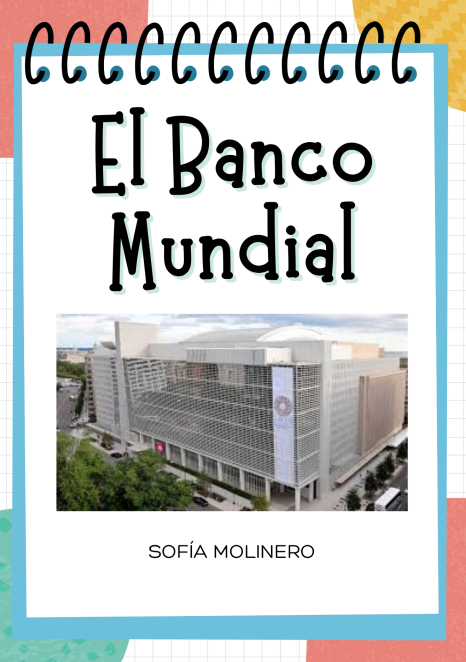
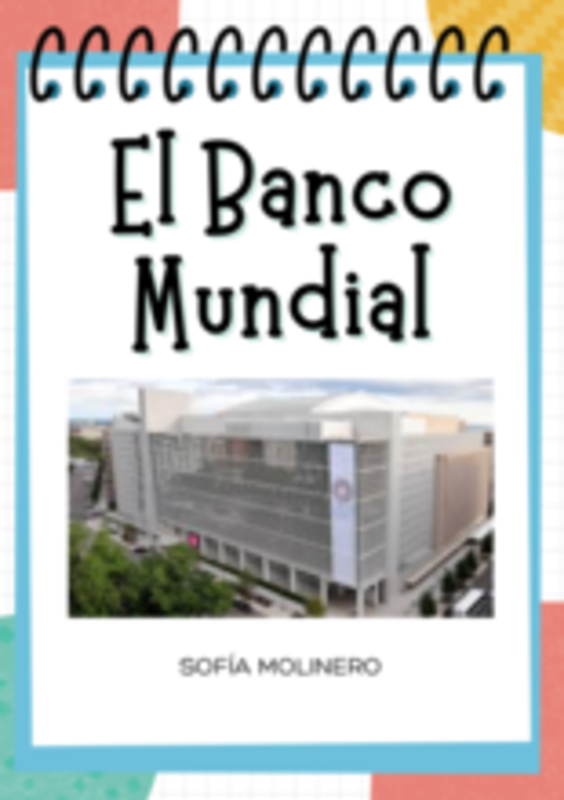
estrutura

diff --git a/style.css b/style.css
@@ -22,7 +22,7 @@ body {
     background-color: var(--bg-color);
     color: var(--text-main);
     line-height: 1.6;
-    background-image: 
+    background-image:
         radial-gradient(at 0% 0%, rgba(37, 99, 235, 0.06) 0px, transparent 50%),
         radial-gradient(at 100% 100%, rgba(5, 150, 105, 0.06) 0px, transparent 50%);
     background-attachment: fixed;
@@ -106,7 +106,8 @@ header.hero {
     border-color: #bfdbfe;
 }
 
-.card-image-placeholder, .page-image-placeholder {
+.card-image-placeholder,
+.page-image-placeholder {
     background: linear-gradient(45deg, #f1f5f9, #e2e8f0);
     display: flex;
     align-items: center;
@@ -125,7 +126,7 @@ header.hero {
 .card-image-placeholder .card-img {
     width: 100%;
     height: 220px;
-    object-fit: cover;
+    object-fit: scale-down;
     object-position: center;
     display: block;
     transition: transform 0.4s ease;
@@ -153,7 +154,8 @@ header.hero {
     border-radius: 16px;
 }
 
-.card-image-placeholder span, .page-image-placeholder span {
+.card-image-placeholder span,
+.page-image-placeholder span {
     font-size: 0.85rem;
     color: #94a3b8;
     font-weight: 500;
@@ -250,7 +252,8 @@ footer {
     color: var(--text-main);
 }
 
-.content-section p, .content-section li {
+.content-section p,
+.content-section li {
     color: var(--text-muted);
     margin-bottom: 1rem;
     font-size: 1.05rem;

diff --git a/index.html b/index.html
@@ -21,7 +21,7 @@
             <!-- PRÁCTICA 1 -->
             <article class="card">
                 <div class="card-image-placeholder">
-                    <img src="resources/trabajo-1-edited.PNG" alt="Organismos Internacionales y Educación" class="card-img">
+                    <img src="resources/trabajo-1-edited.png" alt="Organismos Internacionales y Educación" class="card-img">
                 </div>
                 <div class="card-content">
                     <h2>Práctica 1: Organismos Internacionales y Educación</h2>
